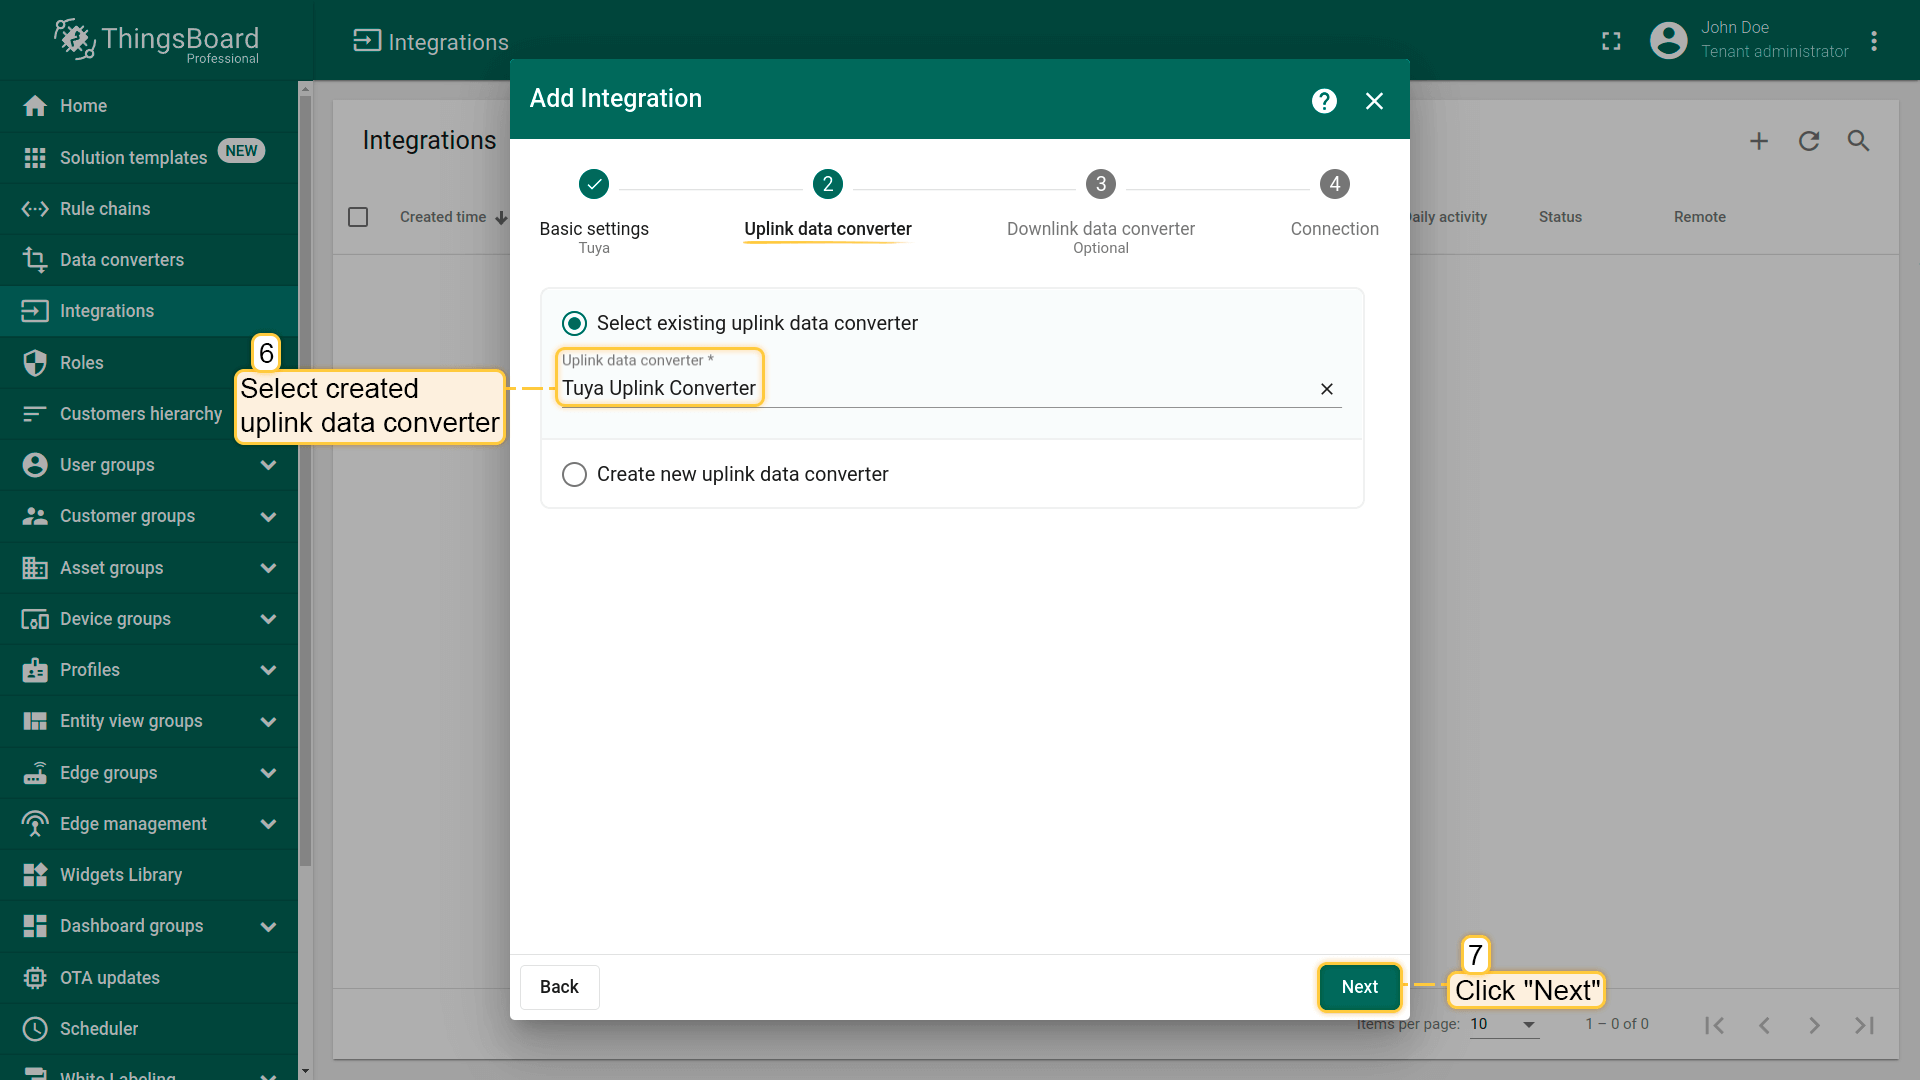
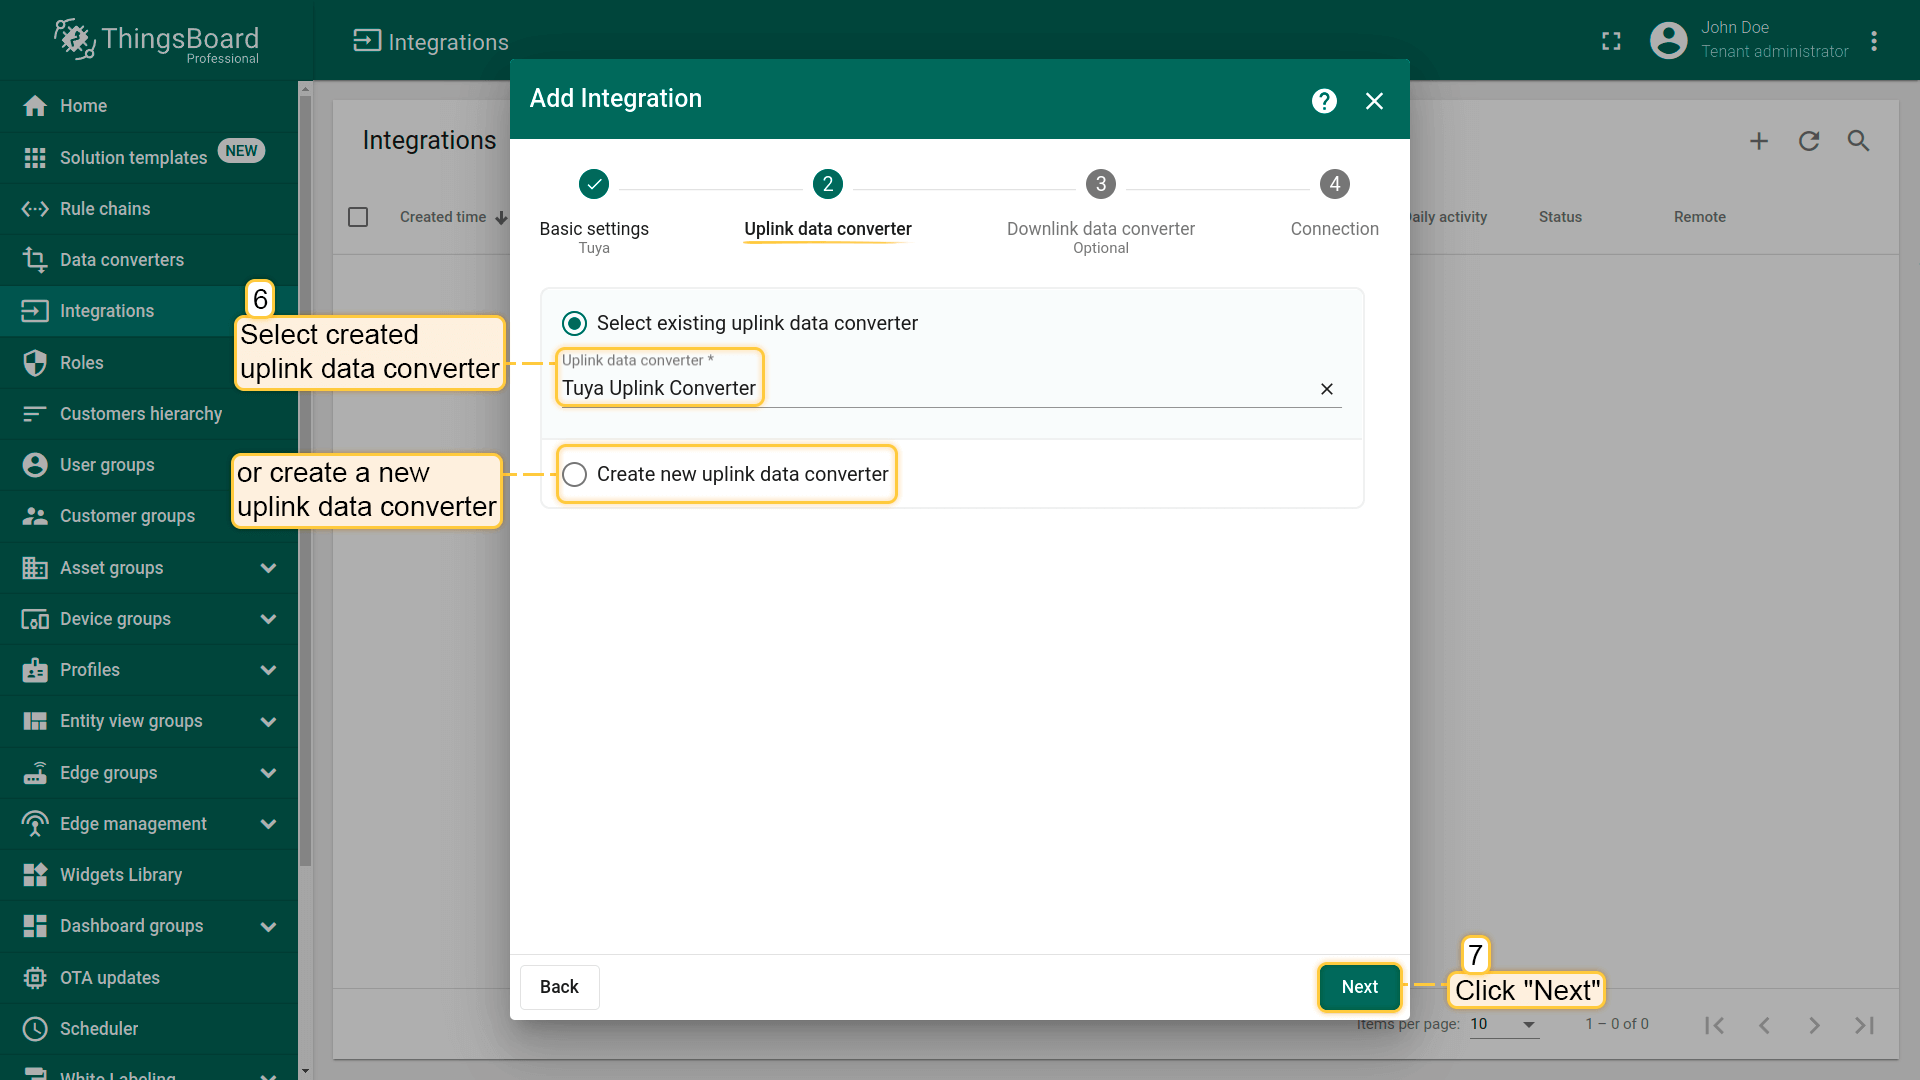
minor fixes and changes in the text and screenshots

Changed region(s): [[0.0938, 0.2444, 0.4688, 0.4889]]

diff --git a/_includes/docs/pe/user-guide/integrations/tuya.md b/_includes/docs/pe/user-guide/integrations/tuya.md
@@ -29,11 +29,13 @@ The next step is to register an account on [Tuya](https://www.tuya.com/) and cre
 
 #### Enable Tuya message service
 
+Enable the message service to timely receive messages about device registration, data reporting, and status change.
+
 {% include images-gallery.html imageCollection="tuya-message-service-enable" showListImageTitles="true" %}
 
 #### Link Tuya App Account
 
-You can link devices to this project by using accounts of Smart Life App.
+You need to link your devices to this project using your Smart Life app account.
 
 {% include images-gallery.html imageCollection="tuya-add-smart-life-app" showListImageTitles="true" %}
 
@@ -86,7 +88,7 @@ Go to **Integrations** section and click Add new integration button. Name it **T
 ![image](/images/user-guide/integrations/tuya/tuya-create-integration-1-pe.png)
 {% endif %}
 
-Add recently created **Tuya Uplink Converter**;
+In this step, you can select the recently created **Tuya Uplink Converter** or create a new uplink data converter;
 
 {% if docsPrefix == "pe/" %}
 ![image](/images/user-guide/integrations/tuya/tuya-create-integration-2-pe.png)
@@ -95,7 +97,7 @@ Add recently created **Tuya Uplink Converter**;
 ![image](/images/user-guide/integrations/tuya/tuya-create-integration-2-pe.png)
 {% endif %}
 
-Add **Tuya Downlink Converter** to the integration;
+Add **Tuya Downlink Converter** to the integration or create a new downlink data converter;
 
 {% if docsPrefix == "pe/" %}
 ![image](/images/user-guide/integrations/tuya/tuya-create-integration-3-pe.png)

diff --git a/docs/paas/user-guide/integrations/tuya.md b/docs/paas/user-guide/integrations/tuya.md
@@ -27,10 +27,10 @@ tuya-create-cloud-project:
         title: 'Go to "Cloud" tab -> "Development". Click "Create Cloud Project" button'
     1:
         image: /images/user-guide/integrations/tuya/tuya-create-cloud-project-2.png
-        title: 'In a popup window fill required fields and click "Create"'
+        title: 'In a pop-up window fill required fields and click "Create"'
     2:
         image: /images/user-guide/integrations/tuya/tuya-create-cloud-project-3.png
-        title: 'In the "Autorize API Services" window, make additional settings and click "Authorize"'
+        title: 'In the "Autorize API Services" window make additional settings and click "Authorize"'
     3:
         image: /images/user-guide/integrations/tuya/tuya-create-cloud-project-4.png
         title: 'In the "Project configuration" window fill required fields. After click "Create"'

diff --git a/docs/user-guide/integrations/tuya.md b/docs/user-guide/integrations/tuya.md
@@ -27,10 +27,10 @@ tuya-create-cloud-project:
         title: 'Go to "Cloud" tab -> "Development". Click "Create Cloud Project" button'
     1:
         image: /images/user-guide/integrations/tuya/tuya-create-cloud-project-2.png
-        title: 'In a popup window fill required fields and click "Create"'
+        title: 'In a pop-up window fill required fields and click "Create"'
     2:
         image: /images/user-guide/integrations/tuya/tuya-create-cloud-project-3.png
-        title: 'In the "Autorize API Services" window, make additional settings and click "Authorize"'
+        title: 'In the "Autorize API Services" window make additional settings and click "Authorize"'
     3:
         image: /images/user-guide/integrations/tuya/tuya-create-cloud-project-4.png
         title: 'In the "Project configuration" window fill required fields. After click "Create"'
